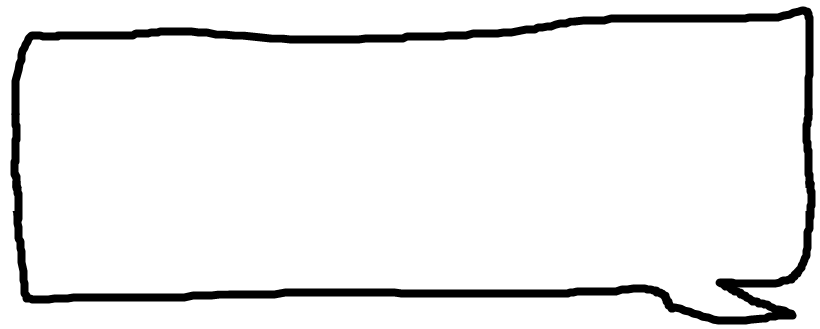
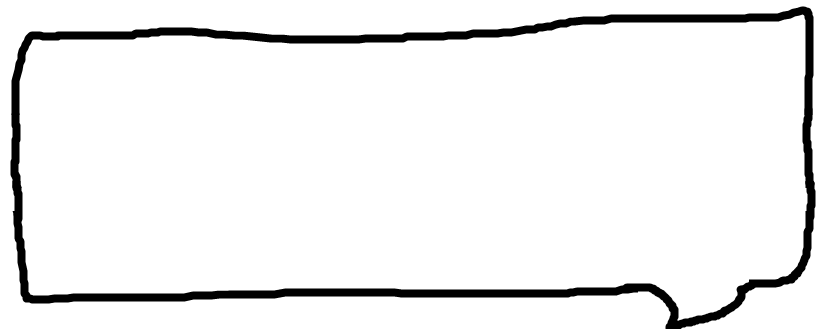
feat:transparent images

Changed region(s): [[0.7622, 0.8207, 0.9756, 1.0]]

diff --git a/src/components/Game.vue b/src/components/Game.vue
@@ -53,7 +53,7 @@ const endImage = computed(() => currentNode.value?.endImage);
     <!-- Contenu du jeu (non affiché si c'est une fin) -->
     <template v-else>
       <div class="bubble-wrapper question-wrapper">
-        <img src="/assets/images/bubble_question.png" alt="Bulle de question" class="bubble-image" />
+        <img src="/assets/images/bubble_question_t.png" alt="Bulle de question" class="bubble-image" />
         <p class="bubble-text question-text">{{ currentNode.question }}</p>
       </div>
 
@@ -61,7 +61,7 @@ const endImage = computed(() => currentNode.value?.endImage);
       <img v-if="characterRightImage" :src="characterRightImage" alt="Personnage droit" class="character-image right" />
 
       <div class="bubble-wrapper choices-wrapper">
-        <img src="/assets/images/bubble_choices.png" alt="Bulle de choix" class="bubble-image" />
+        <img src="/assets/images/bubble_choices_t.png" alt="Bulle de choix" class="bubble-image" />
         <div class="choices-container">
           <button
             v-for="choice in currentNode.choices"
@@ -163,7 +163,7 @@ const endImage = computed(() => currentNode.value?.endImage);
   font-size: 1.1rem;
   cursor: pointer;
   transition: background-color 0.3s, transform 0.2s;
-  font-family: 'Comic Sans MS', cursive, sans-serif;
+  font-family: Arial, Helvetica, sans-serif;
   flex-grow: 0; /* Ne prend pas toute la largeur disponible */
   white-space: nowrap; /* Empêche le texte de se couper */
 }
@@ -201,7 +201,7 @@ const endImage = computed(() => currentNode.value?.endImage);
   padding: 10px 20px;
   box-shadow: 0 2px 10px rgba(0, 0, 0, 0.1);
   margin-bottom: 20px;
-  font-family: 'Comic Sans MS', cursive, sans-serif;
+  font-family: Arial, Helvetica, sans-serif;
   font-size: 1.3rem;
   color: #333;
 }
